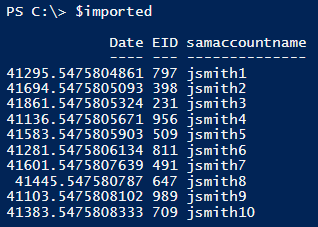
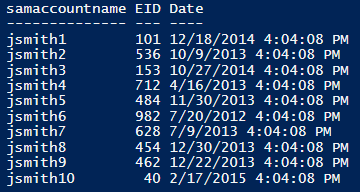
pic update

diff --git a/_posts/2015-03-29-PSExcel-Intro.md b/_posts/2015-03-29-PSExcel-Intro.md
@@ -85,12 +85,7 @@ $Imported = Import-XLSX -Path C:\Temp\Demo.xlsx -Header samaccountname, EID, Dat
 
 ![Dummy data](/images/psexcel-intro/imported.png)
 
-It worked! But two things to keep in mind:
-
-* Excel might not store your data as expected. Why are those dates funny looking?
-* The header order might not meet your expectations. I'll work on fixing this.
-
-Tip: Use DateTime's FromOADate method to convert dates: ```[datetime]::FromOADate(41383.5475808333)```
+It worked! Keep in mind that Excel might not store your data as expected. If you run into any odd cases, be sure to let me know, there might be a quick fix.
 
 #### Generate an Excel object to work with
 
